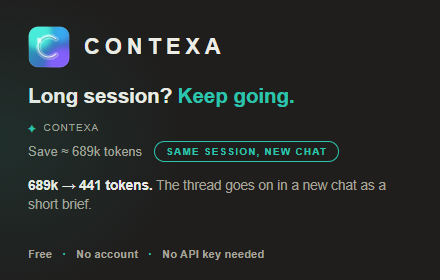
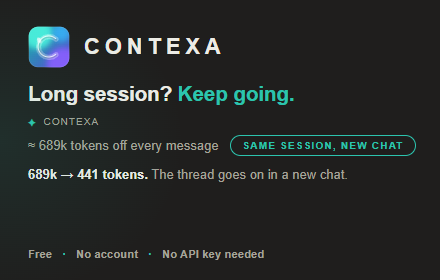
0.9.98: the cost line reads "≈ <n> tokens off every message"
What the button saves on each message after it, not a one-off figure. The
small promo tile sets the line and the button on one row.

Changed region(s): [[0.0591, 0.2857, 0.9455, 0.6857], [0.0591, 0.7143, 0.2068, 0.7714]]

diff --git a/scripts/promo/tiles.html b/scripts/promo/tiles.html
@@ -84,11 +84,12 @@
   #tile{width:440px;height:280px;padding:26px 28px 24px}
   #tile .wordmark .name{font-size:22px}
   #tile .mascot{width:42px;height:42px}
-  #tile .tag{font-size:21px;margin:16px 0 14px;white-space:nowrap}
+  #tile .tag{font-size:21px;margin:14px 0 10px;white-space:nowrap}
   #tile .label{margin-bottom:7px}
   #tile .chip{font-size:12px;padding:5px 12px}
-  #tile .cost{font-size:13px;gap:12px}
-  #tile .lead{font-size:13.5px;margin-top:14px}
+  #tile .cost{font-size:13px;gap:12px;white-space:nowrap}
+  #tile .cost .btn{white-space:nowrap}
+  #tile .lead{font-size:13px;margin-top:10px}
   #tile .foot{position:absolute;left:28px;bottom:20px;font-size:11px}
 
   /* ================= 1400 x 560 ================= */
@@ -121,8 +122,8 @@
   </div>
   <div class="tag">Long session? <em>Keep going.</em></div>
   <div class="label"><b>✦</b> CONTEXA</div>
-  <div class="cost"><span>Save ≈ 689k tokens</span><span class="btn">Same session, new chat</span></div>
-  <p class="lead"><b>689k → 441 tokens.</b> The thread goes on in a new chat as a short brief.</p>
+  <div class="cost"><span>≈ 689k tokens off every message</span><span class="btn">Same session, new chat</span></div>
+  <p class="lead"><b>689k → 441 tokens.</b> The thread goes on in a new chat.</p>
   <div class="foot">Free <i>·</i> No account <i>·</i> No API key needed</div>
 </div>
 
@@ -145,7 +146,7 @@
         <div class="reply">
           <p><strong>Page 2 chart, fixed.</strong> September appears once now, and the regions follow the same order as the table.</p>
         </div>
-        <div class="label"><b>✦</b> CONTEXA <span class="cost"><span>Save ≈ 689k tokens</span><span class="btn hot">Same session, new chat</span></span></div>
+        <div class="label"><b>✦</b> CONTEXA <span class="cost"><span>≈ 689k tokens off every message</span><span class="btn hot">Same session, new chat</span></span></div>
         <div class="nc">New chat · brief inserted, not sent · <b>689k → 441 tokens</b></div>
         <div class="box">Goal: the Q3 sales report for the team — five pages, due Friday.
 Settled: regions North, South, West · charts by quarter · summary up front

diff --git a/scripts/screenshots/slides.html b/scripts/screenshots/slides.html
@@ -9,7 +9,7 @@
   measurement in publishing/STORE-LISTING.md, and frame 2 labels it as such.
 
   The product parts are drawn with content.js's own copy: the "✦ CONTEXA"
-  label, the cost line ("Save ≈ <n> tokens"), the "Same session, new chat"
+  label, the cost line ("≈ <n> tokens off every message"), the "Same session, new chat"
   button, the mascot trigger, the row of moves. When any of those strings
   changes in content.js, change it here and re-render.
 
@@ -119,7 +119,7 @@
     <div class="chat">
       <div class="turn">The chart on page 2 still shows September twice. Can you fix it?</div>
       <div class="reply"><b>Page 2 chart, fixed.</b>September appears once now, and the regions follow the same order as the table. The one-page summary is next when you’re ready.</div>
-      <div class="label"><b>✦</b> CONTEXA <span class="cost">Save ≈ 689k tokens <button class="hot">Same session, new chat</button></span></div>
+      <div class="label"><b>✦</b> CONTEXA <span class="cost">≈ 689k tokens off every message <button class="hot">Same session, new chat</button></span></div>
       <div class="mascot"><svg><use href="#mascot"/></svg></div>
       <div class="box" style="margin-top:10px">Reply to Claude…<span class="m">Sonnet ▾</span><span class="go">↑</span></div>
     </div>

diff --git a/extension/content.js b/extension/content.js
@@ -495,7 +495,7 @@
     const cost = document.createElement('span');
     cost.className = 'ctxa-cost';
     const words = document.createElement('span');
-    words.textContent = 'Save ≈ ' + kTokens(ctx.thread) + ' tokens';
+    words.textContent = '≈ ' + kTokens(ctx.thread) + ' tokens off every message';
     const btn = document.createElement('button');
     btn.type = 'button';
     btn.textContent = 'Same session, new chat';

diff --git a/publishing/screenshots/README.md b/publishing/screenshots/README.md
@@ -22,7 +22,7 @@ selectors. Only a live session proves those still match the site.
 
 | File | Headline | Shows |
 |---|---|---|
-| `1-new-chat.png` | Long session? Keep going. | the cost line on a long thread — `Save ≈ 689k tokens` — and the **Same session, new chat** button beside it |
+| `1-new-chat.png` | Long session? Keep going. | the cost line on a long thread — `≈ 689k tokens off every message` — and the **Same session, new chat** button beside it |
 | `2-brief.png` | Same work. A lighter thread. | the brief landed in a new chat, not sent, beside the measured pair (689k against 441, 9% against 3% of the five-hour limit), labelled as measured |
 | `3-moves.png` | Deep in a session? Your next move. | the mined row — three independent moves, each a complete request |
 | `4-composed.png` | One click. A complete prompt. | one click later: the whole prompt in the message box, still unsent |

diff --git a/CHANGELOG.md b/CHANGELOG.md
@@ -22,9 +22,9 @@ nothing on the wire changed. (A first draft of this release called it *Keep
 going*; that stays as the motto on the screenshots, "Save tokens. Keep going.",
 and not as the button.)
 
-The cost line beside it reads **Save ≈ 689k tokens** (the thread estimate,
-`Save ≈ ${kTokens} tokens`) where it said "≈ 689k tokens re-read per send": what
-the button saves, not what the thread costs.
+The cost line beside it reads **≈ 689k tokens off every message** (the thread estimate) where it
+said "≈ 689k tokens re-read per send": what the button saves on each message
+that follows, not what the thread costs.
 
 The store fields move with it. The manifest `description` leads with the long
 session — *Long claude.ai session? Carry it into a new chat as a brief: same

diff --git a/scripts/screenshots/README.md b/scripts/screenshots/README.md
@@ -69,7 +69,7 @@ writes under `build-ready/` (git-ignored) and never into the listing set:
   a long thread draws the cost line, not the model note. Neither nudge may
   carry a button.
 - `CX_FORK=1` (0.9.73) — pads the thread past the cost line's threshold,
-  asserts the "Save ≈ Nk tokens" line and the **Same session, new chat**
+  asserts the "≈ Nk tokens off every message" line and the **Same session, new chat**
   control render, clicks it against a canned `/v1/fork`, asserts the brief
   card and the before/after log line, clicks the chip, follows the NEW tab to
   `https://claude.ai/new`, and asserts the brief is in that tab's composer —
